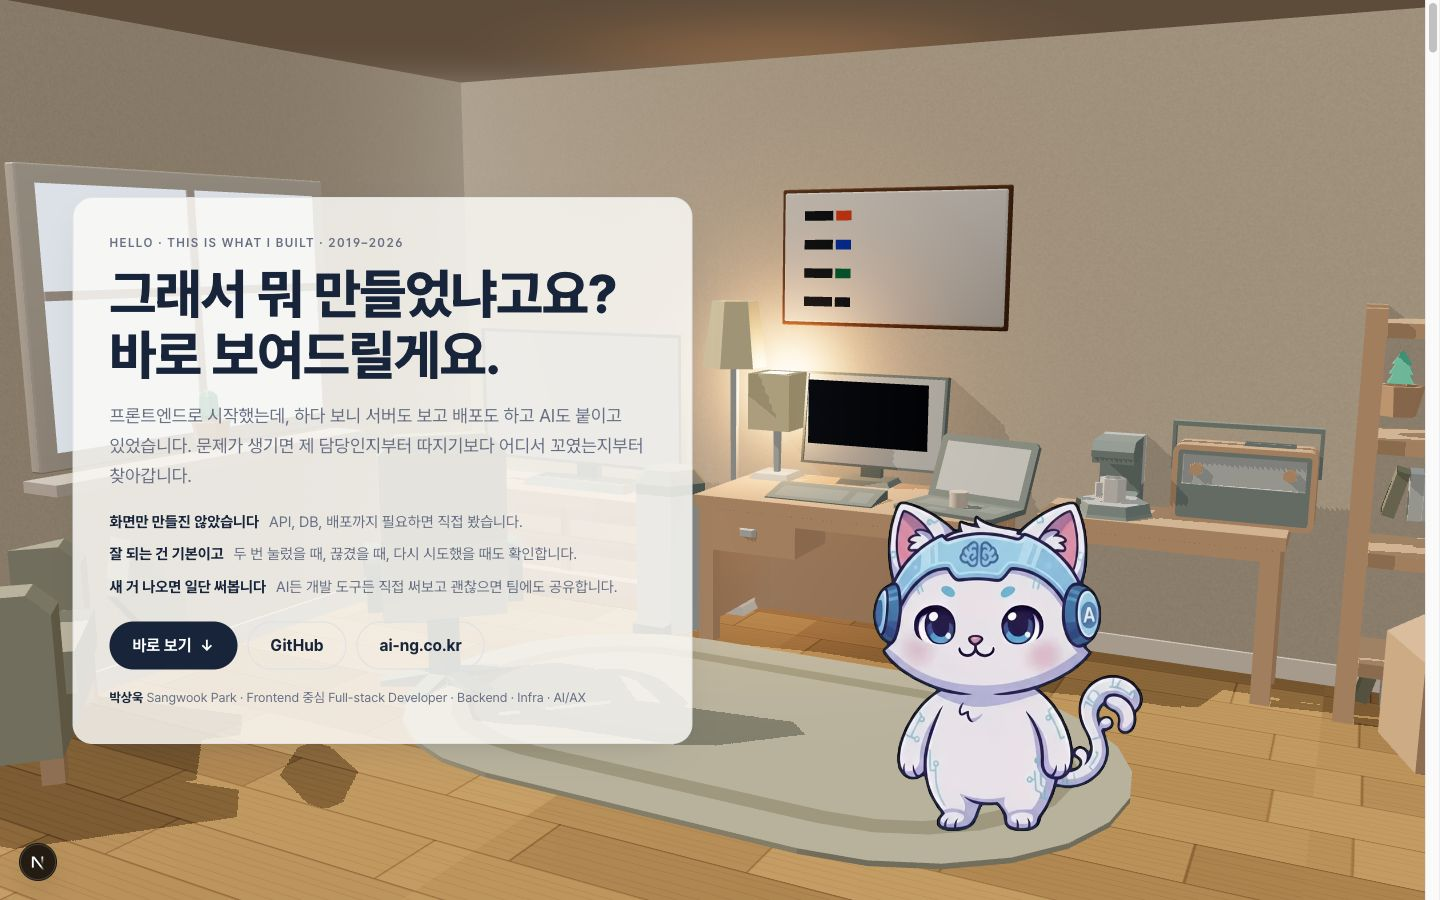
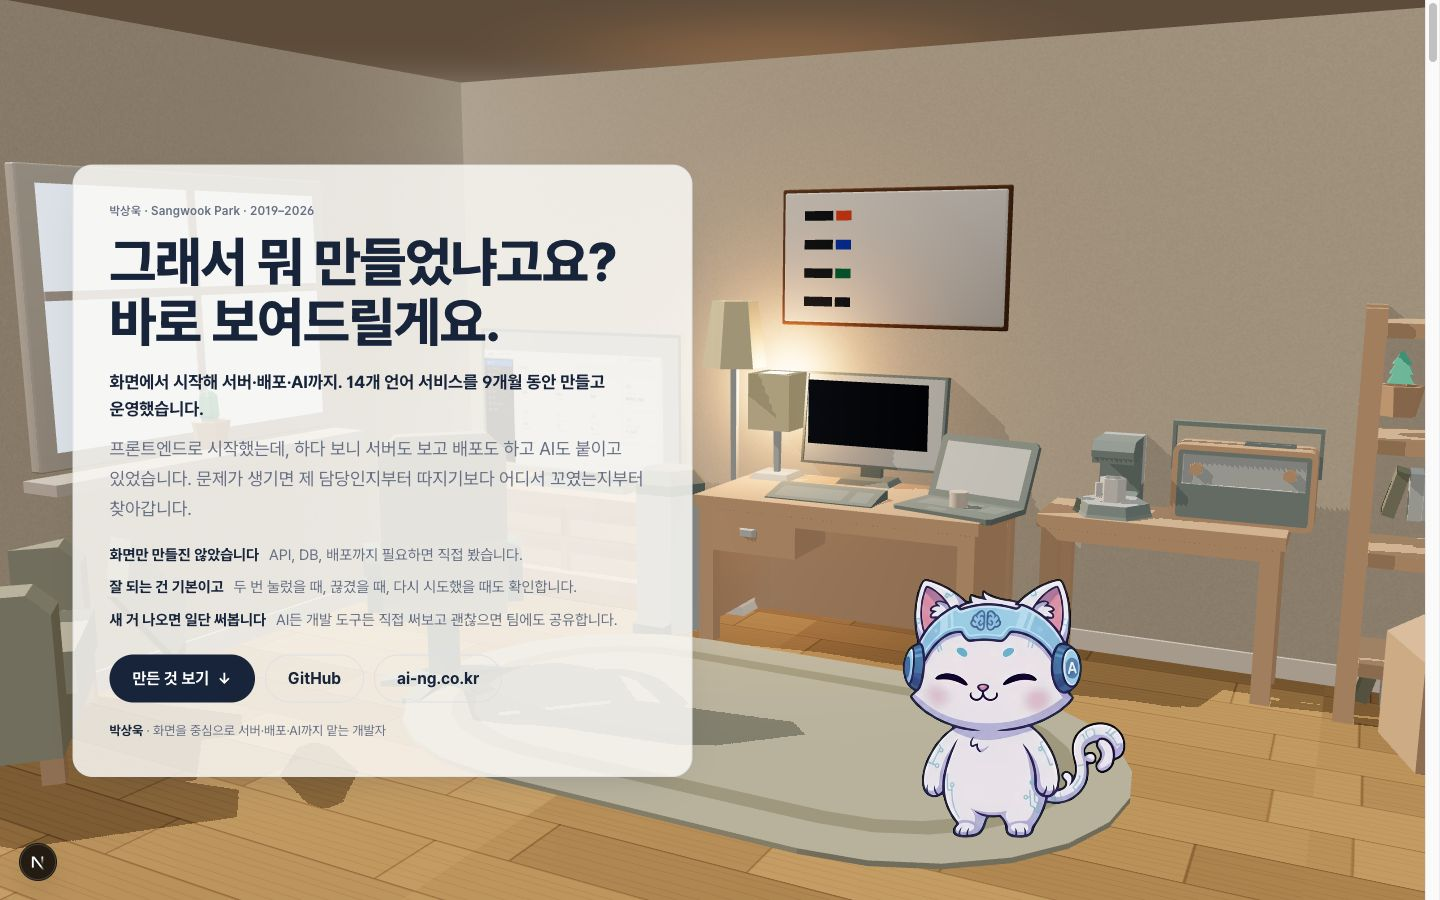
feat(ux): hero leads with name and headline result, Korean labels, shorter sections (1820->1380svh), persistent contact bar, hidden nav out of tab order, slider ownership returns to scroll, reduced-motion unpins sections, tour links, focusable career rows (Opus agent, reviewed)
Claude-Session: https://claude.ai/code/session_015BZdvMm4Hd3KyN1K88tamH

Changed region(s): [[0.0312, 0.1556, 0.5, 0.8711], [0.5938, 0.56, 0.8125, 0.9333], [0.375, 0.7467, 0.4062, 0.7778]]

diff --git a/experience/content/portfolio.ts b/experience/content/portfolio.ts
@@ -166,7 +166,7 @@ export const ai = {
 } as const;
 
 export const quality = {
-  eyebrow: "Quality · 가끔부터 없애기",
+  eyebrow: "품질 · 가끔부터 없애기",
   title: "테스트가 가끔 실패했습니다. 그래서 ‘가끔’부터 없앴습니다.",
   body: "결제 기능에는 문제가 없었는데 자동 테스트는 가끔씩 실패했습니다. 시간을 더 기다리게 만드는 대신 왜 실패하는지 찾고, 반복해도 결과가 같도록 고쳤습니다.",
   steps: [
